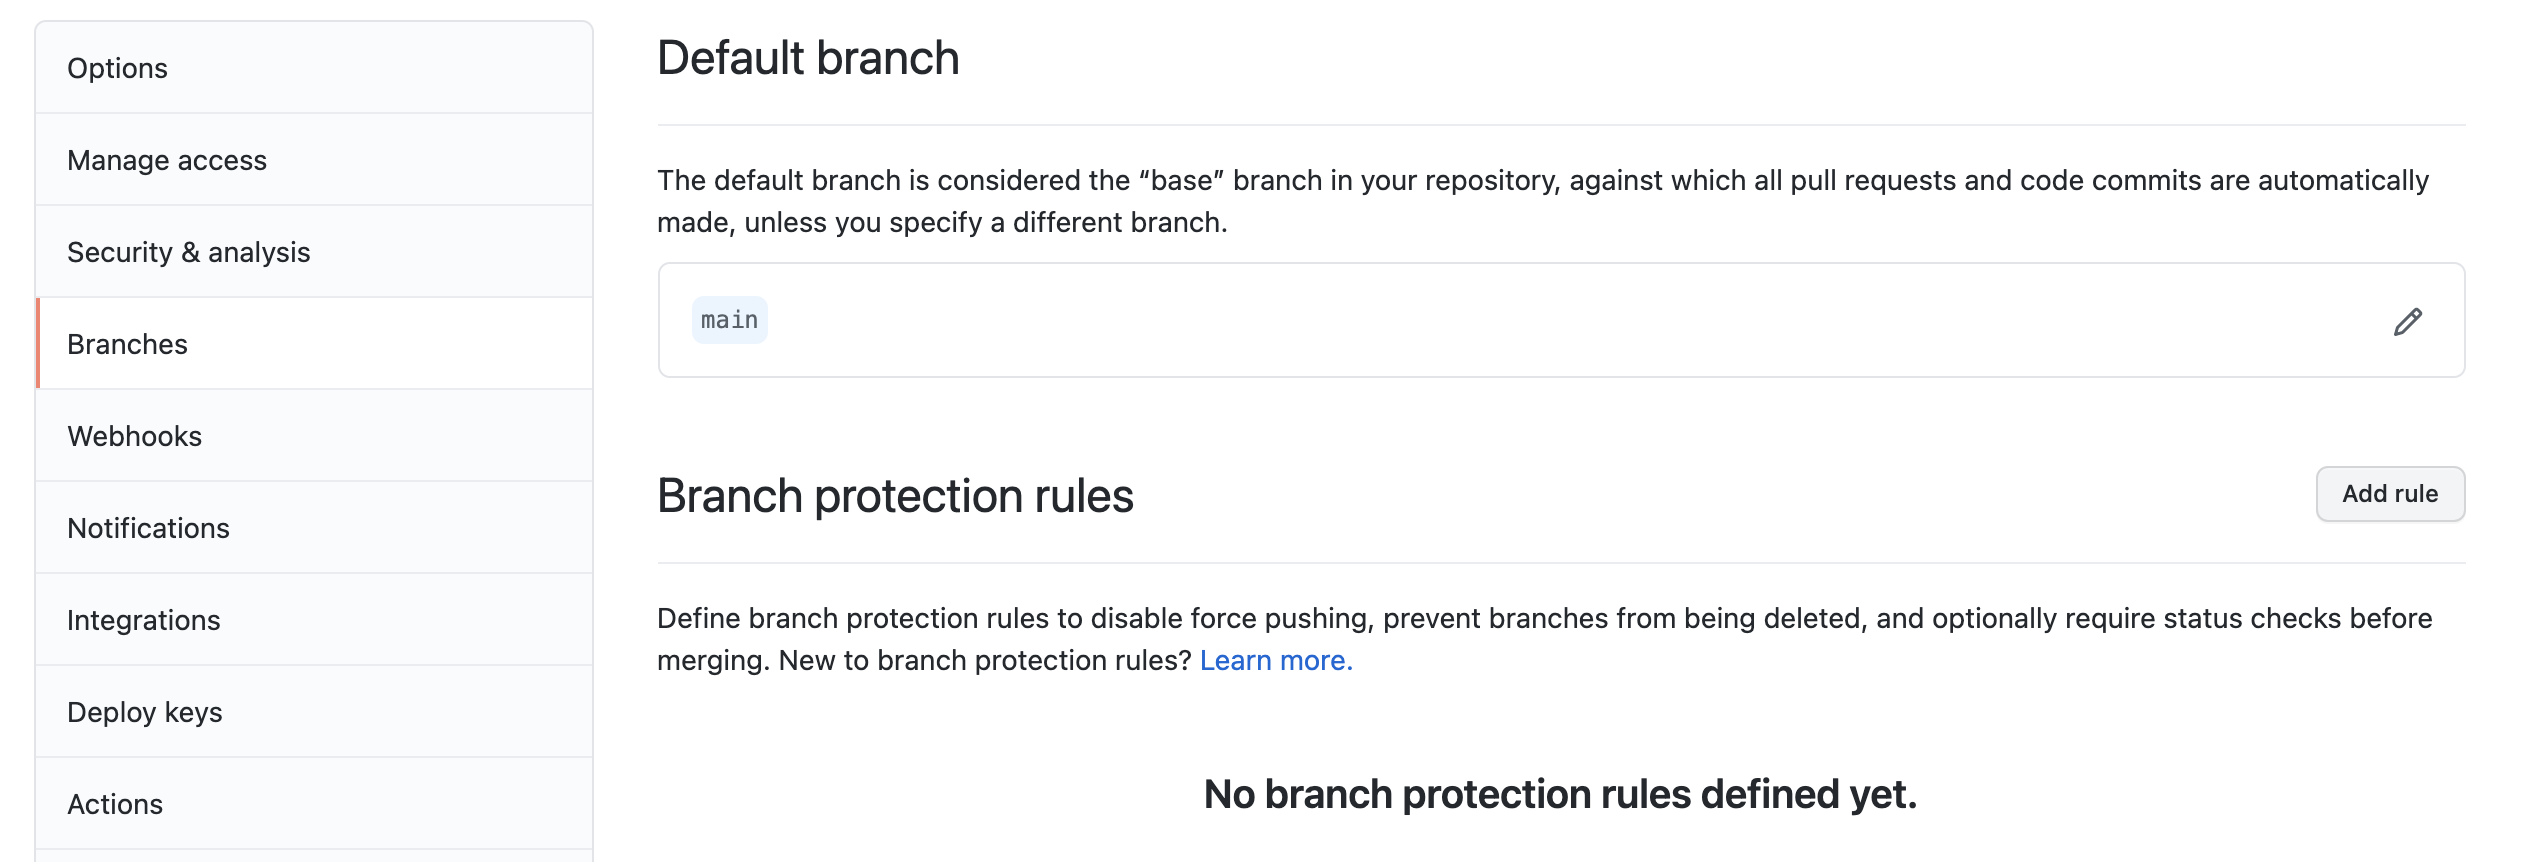
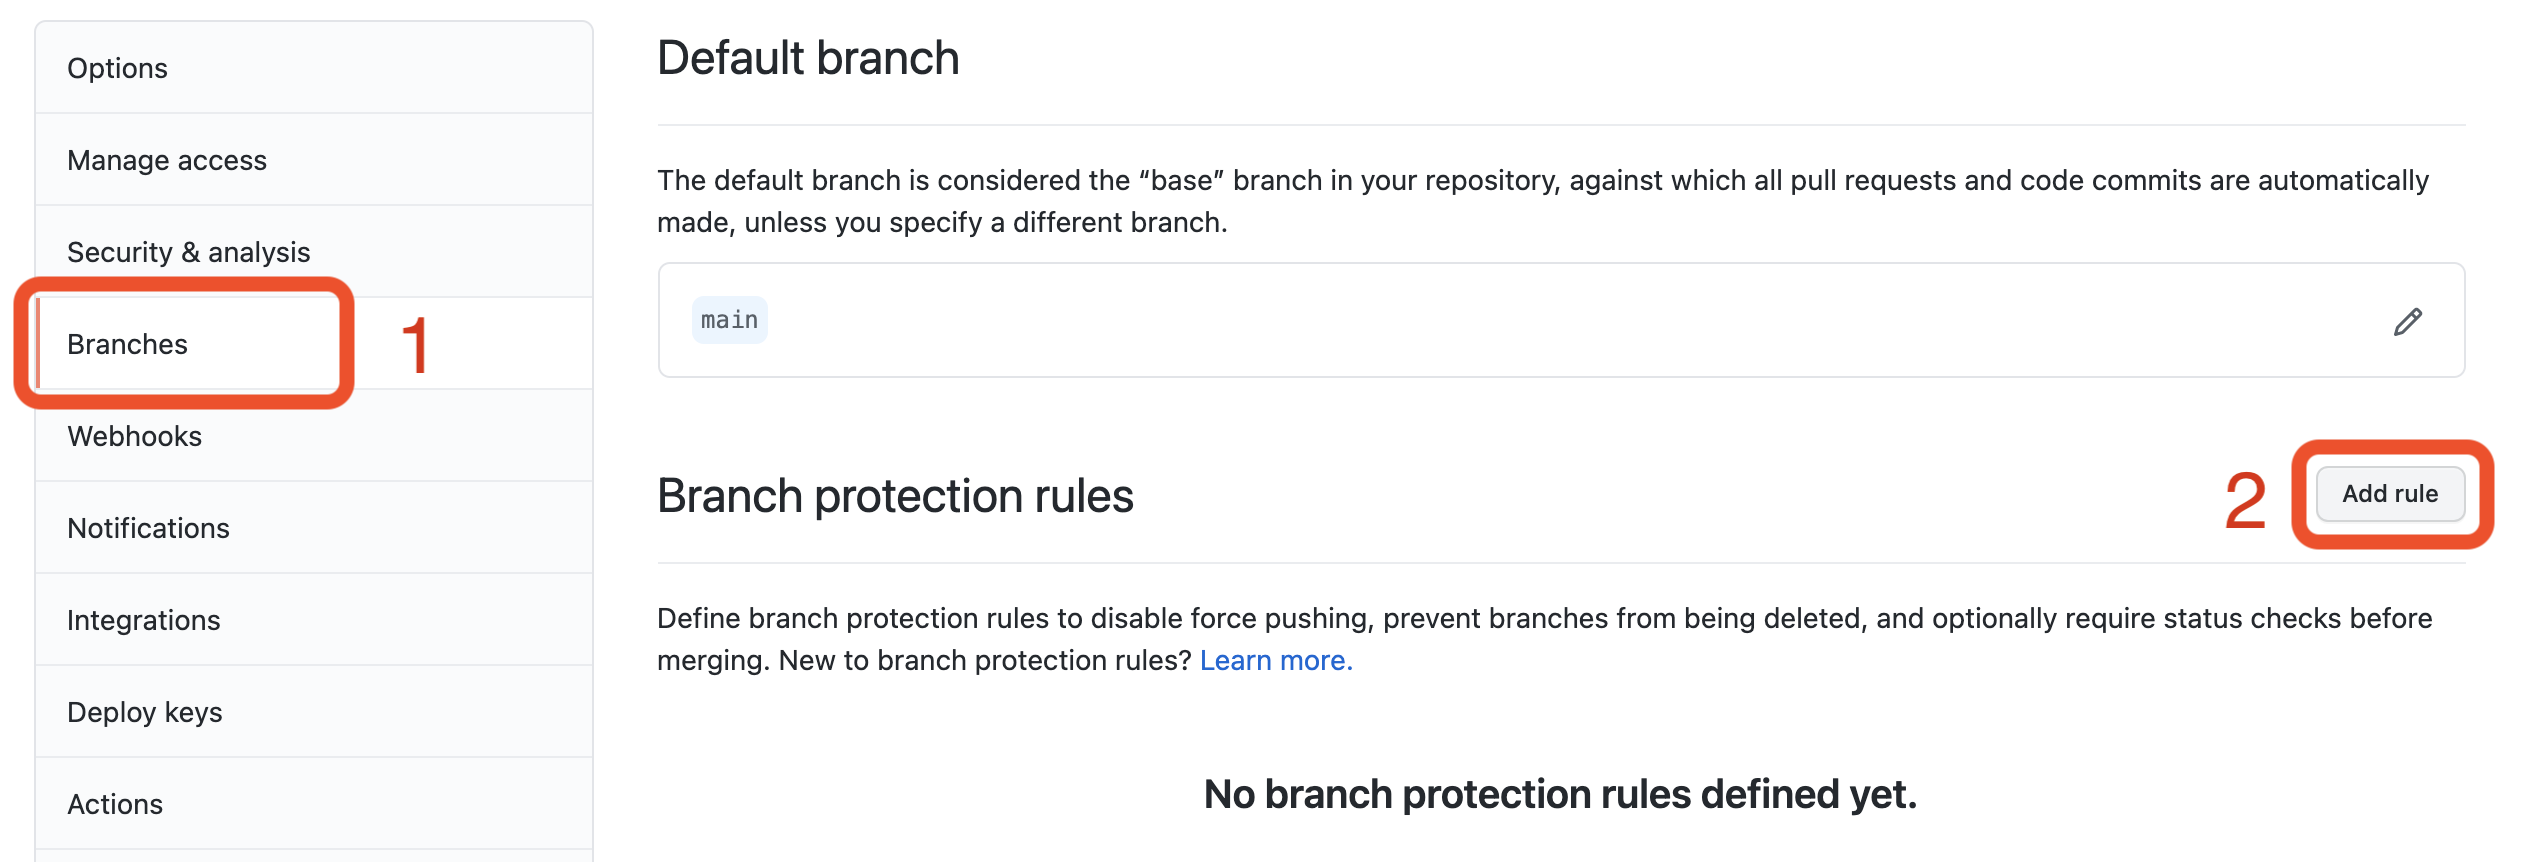
feat: add branch protection article

Changed region(s): [[0.0, 0.3016, 0.1854, 0.4826], [0.8653, 0.4826, 0.9889, 0.6636]]

diff --git a/src/enabling-branch-protection.md b/src/enabling-branch-protection.md
@@ -1,0 +1,59 @@
+`#assembler-school`
+
+# Pills and Projects: Enabling Branch protection
+
+In this page you will learn how to enable branch protection on a repo so that users cannot merge new branches without a reviewer approving them.
+
+## Table of Contents <!-- omit in toc -->
+
+- [Pills and Projects: Enabling Branch protection](#pills-and-projects-enabling-branch-protection)
+  - [First step](#first-step)
+  - [Adding a new rule](#adding-a-new-rule)
+  - [Setting the main options](#setting-the-main-options)
+  - [Creating the rule](#creating-the-rule)
+  - [Creating the rule](#creating-the-rule-1)
+  - [Resources](#resources)
+
+## First step
+
+The first step is to go to your repos settings panel.
+
+![First step](/src/img/branch-protection/01-first-step.png)
+
+[back to top](#pills-and-projects-enabling-branch-protection)
+
+## Adding a new rule
+
+Then, in the `Branches` tab of the settings page you can add a new branch protection rule by clicking on the `Add rule` button.
+
+![Add a new rule](/src/img/branch-protection/02-add-new-rule.png)
+
+[back to top](#pills-and-projects-enabling-branch-protection)
+
+## Setting the main options
+
+The settings you need to add are a wildcard `*` so that it affects all the branches in the repo together with the indicated options bellow.
+
+![Adding All Branches And Options](/src/img/branch-protection/03-adding-all-branches-and-options.png)
+
+[back to top](#pills-and-projects-enabling-branch-protection)
+
+## Creating the rule
+
+Then, you need to click on the `Create rule` button to activate the branch protection rules.
+
+![Create the rule](/src/img/branch-protection/04-create-rule.png)
+
+[back to top](#pills-and-projects-enabling-branch-protection)
+
+## Creating the rule
+
+Now the branch protection rules are added and they apply to all the branches in the repo.
+
+![Branch protection added](/src/img/branch-protection/05-branch-protection-added.png)
+
+[back to top](#pills-and-projects-enabling-branch-protection)
+
+## Resources
+
+[Learn more about code reviews](../README.md#resources)

diff --git a/src/pill-projects-evaluation-guidelines.md b/src/pill-projects-evaluation-guidelines.md
@@ -7,9 +7,16 @@ In this page you will learn how to fork a project as a student, submit your solu
 ## Table of Contents <!-- omit in toc -->
 
 - [Pills and Projects: Guidelines on delivering solutions and providing feedback](#pills-and-projects-guidelines-on-delivering-solutions-and-providing-feedback)
+  - [Enabling branch protection](#enabling-branch-protection)
   - [Submitting a solution to a pill/project](#submitting-a-solution-to-a-pillproject)
   - [Peer evaluation feedback guidelines](#peer-evaluation-feedback-guidelines)
   - [Code review during a pill or project](#code-review-during-a-pill-or-project)
+
+## Enabling branch protection
+
+Guidelines on how to enable branch protection on a repo so that users cannot merge new branches without a reviewer approving them.
+
+[Guidelines](enabling-branch-protection.md)
 
 ## Submitting a solution to a pill/project
 
